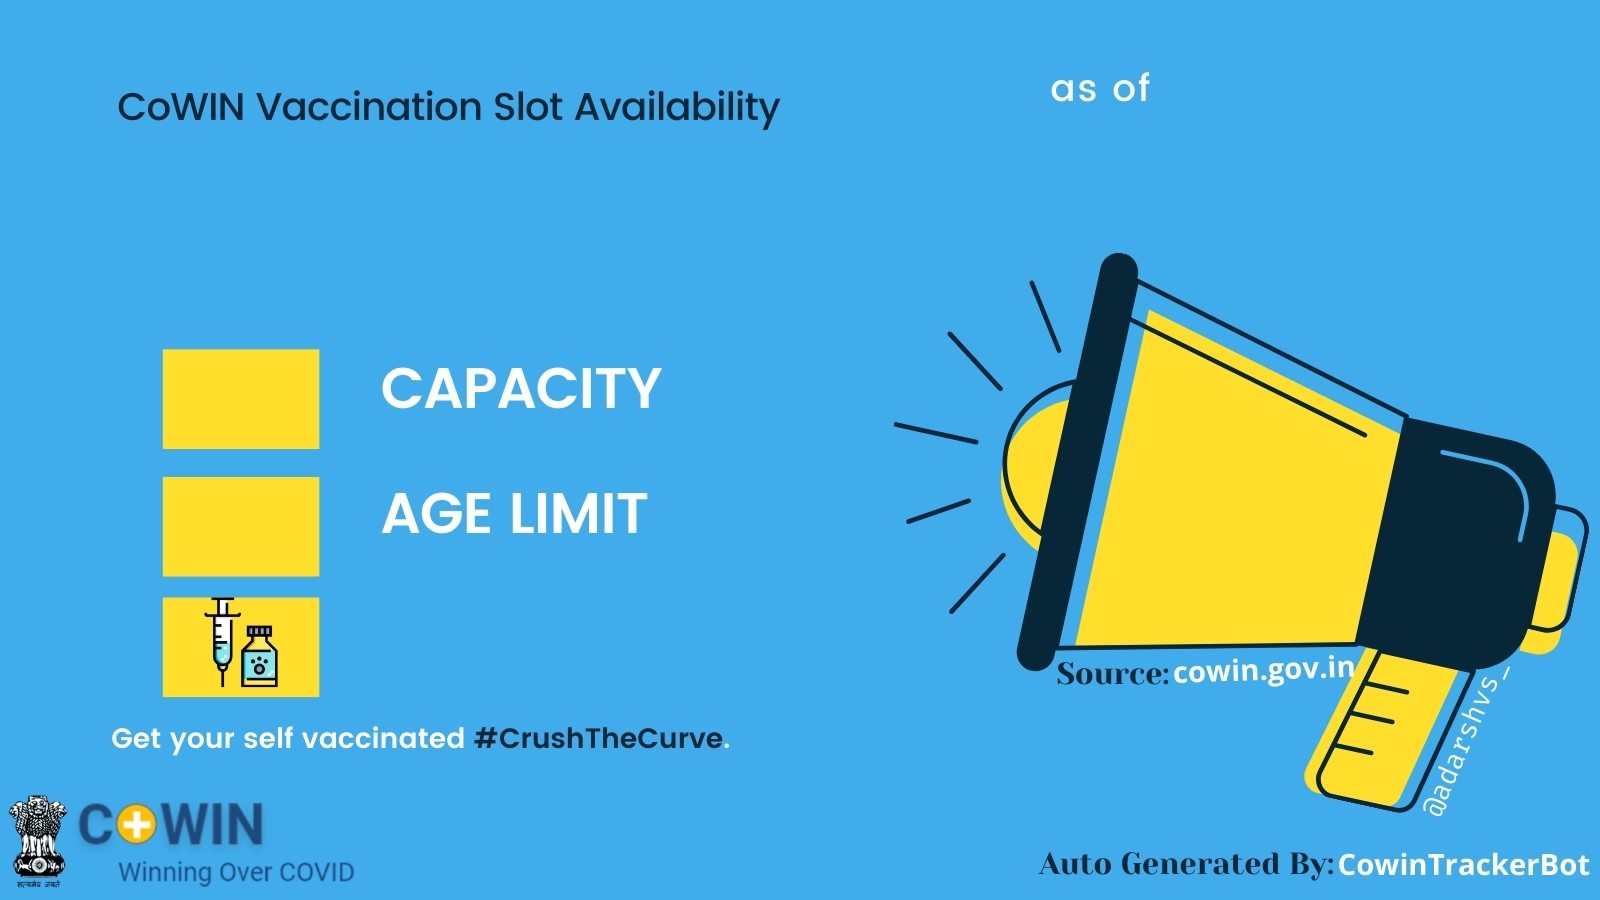
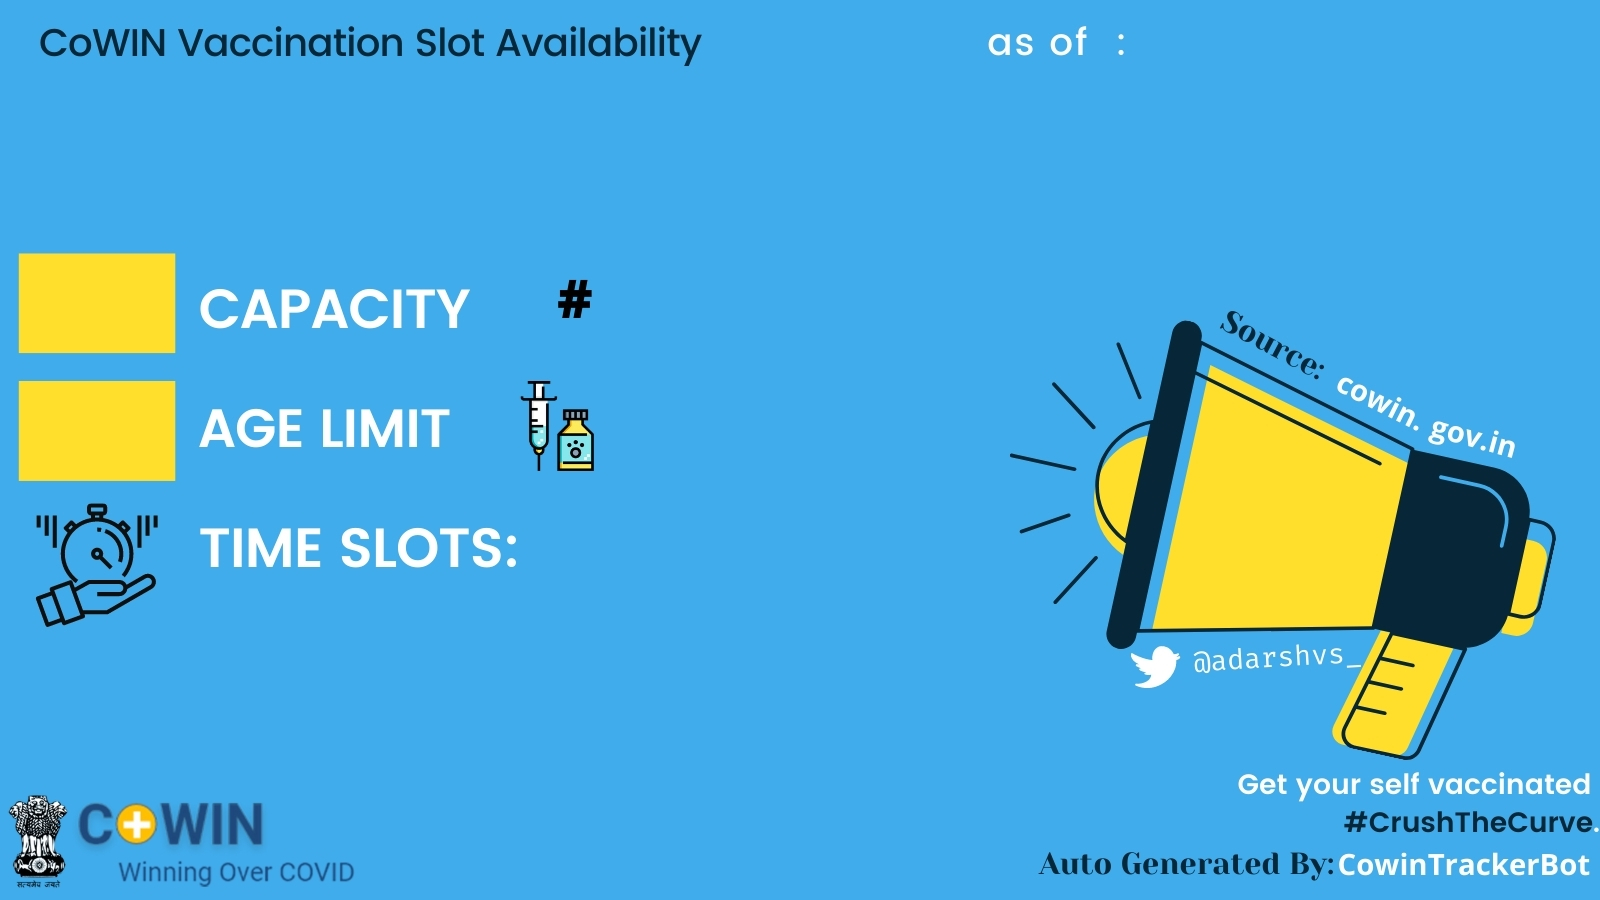
changed image template format and authentication key read format
- added time slot to image template

diff --git a/main.py b/main.py
@@ -6,14 +6,17 @@ import json
 import tweepy
 from PIL import Image, ImageDraw, ImageFont
 
-# telegram authentication token
-token = 'your bot token'
-channel_id = 'your channel name'
-# authentication of access token and secret
-consumer_key = 'consumer key'
-consumer_secret = 'consumer secrets'
-access_token = 'access token'
-access_token_secret = 'access token secret'
+with open("settings.json") as f:
+    settings = json.load(f)
+
+# telegram authentication goes here
+token = settings["telegramToken"]
+channel_id = settings["channelId"]
+# Twitter authentication goes here
+consumer_key = settings["consumerKey"]
+consumer_secret = settings["consumerSecret"]
+access_token = settings["twitterAccessToken"]
+access_token_secret = settings["accessTokenSecret"]
 
 auth = tweepy.OAuthHandler(consumer_key, consumer_secret)
 auth.set_access_token(access_token, access_token_secret)
@@ -26,11 +29,11 @@ font = ImageFont.truetype('font/Roboto-Bold.ttf', size=80)
 avail_date_font = ImageFont.truetype('font/Roboto-Bold.ttf', size=40)
 count_font = ImageFont.truetype('font/Roboto-Bold.ttf', size=60)
 vaccine_font = ImageFont.truetype('font/Roboto-Bold.ttf', size=60)
-dist_font = ImageFont.truetype('font/Roboto-Bold.ttf', size=40)
+dist_font = ImageFont.truetype('font/Roboto-Bold.ttf', size=50)
+slot_font = ImageFont.truetype('font/Roboto-Bold.ttf', size=50)
+
 
 # get current date
-
-
 def getDate():
     current_time = datetime.datetime.now()
     day = current_time.day
@@ -40,9 +43,9 @@ def getDate():
     # set time interval for checking vaccine availability, default time : 15 minutes
     time.sleep(900)
     return date
+
+
 # get name of district
-
-
 def getDistrictID(st_id, lookout_district):
     district_name = ''
     url = "https://cdn-api.co-vin.in/api/v2/admin/location/districts/{st}".format(
@@ -70,9 +73,8 @@ def getCOWIN(date, district_id):
     response = requests.get(url, headers=headers)
     return json.loads(response.text)
 
+
 # check slot availability
-
-
 def checkAvailability(payload):
     if('centers' in payload.keys()):
         length = len(payload['centers'])
@@ -85,15 +87,16 @@ def checkAvailability(payload):
                         res = {'available_center': payload['centers'][i]['name'],
                                'capacity': payload['centers'][i]['sessions'][j]['available_capacity'],
                                'vaccine': payload['centers'][i]['sessions'][j]['vaccine'],
-                               'date_avail': payload['centers'][i]['sessions'][j]['date']}
+                               'date_avail': payload['centers'][i]['sessions'][j]['date'],
+                               'slots': payload['centers'][i]['sessions'][j]['slots']}
                         output.append(res)
 
     return output
 
 
 while True:
-    st_id = 17
-    lookout_district = 296  # distict id which you want to keep an eye on vaccine availability
+    st_id = 17  # State id which you want to keep an eye on vaccine availability
+    lookout_district = 300  # distict id which you want to keep an eye on vaccine availability
     date = getDate()
     district_id = lookout_district
     dist_name = getDistrictID(st_id, lookout_district)
@@ -105,44 +108,51 @@ while True:
             ") \n #getvaccinated #cowin  #CrushTheCurve \n posted by:#cowintrackerbot"
         image = Image.open('images/cowin.jpg')
         draw = ImageDraw.Draw(image)
-        (x, y) = (122, 170)
+        (x, y) = (16, 92)
         center_name = key['available_center']
         color = 'rgb(255, 255, 255)'  # white
         draw.text((x, y), center_name, fill=color, font=font)
 
-        (x, y) = (1184, 65)
+        (x, y) = (1140, 21)
         avail_date = key['date_avail']
         color = 'rgb(0, 0, 0)'  # black color
         draw.text((x, y), avail_date, fill=color, font=avail_date_font)
 
-        (x, y) = (203, 363)
+        (x, y) = (47, 271)
         dose = str(key['capacity'])
         color = 'rgb(0, 0, 0)'  # black color
         draw.text((x, y), dose, fill=color, font=count_font)
 
-        (x, y) = (197, 492)
+        (x, y) = (43, 398)
         age_lim = "45"
         color = 'rgb(0, 0, 0)'  # black color
         draw.text((x, y), age_lim, fill=color, font=count_font)
 
-        (x, y) = (382, 609)
+        (x, y) = (607, 396)
         vaccine_name = key['vaccine']
         color = 'rgb(139,0,0)'  # maroon color
         draw.text((x, y), vaccine_name, fill=color, font=vaccine_font)
 
-        (x, y) = (1054, 134)
+        (x, y) = (611, 263)
         dist_names = dist_name
-        color = 'rgb(48,8,8)'  # black color
+        color = 'rgb(7,38,56)'  # black color
         draw.text((x, y), dist_names, fill=color, font=dist_font)
+
+        (x, y) = (535, 519)
+        slot_avail = '\n'.join(key['slots'])
+        color = 'rgb(7,38,56)'  # black color
+        draw.text((x, y), slot_avail, fill=color, font=slot_font)
 
         image.save('images/optimized.png', optimize=True, quality=20)
         img_path = 'images/optimized.png'
+        # Twitter post section goes here
         api.update_with_media(img_path, status)
 
         # telegram post section goes here
         cap_text = str(key['capacity']) + " doses of "+key['vaccine'] + \
-            " available at "+key['available_center']+" %23"+dist_name
+            " available at "+key['available_center'] + \
+            " %23"+dist_name+" ("+avail_date+")"
         tel_files = {'photo': open(img_path, 'rb')}
-        resps = requests.post('https://api.telegram.org/bot'+token+'/sendPhoto?chat_id=@{}'.format(
+        requests.post('https://api.telegram.org/bot'+token+'/sendPhoto?chat_id=@{}'.format(
             channel_id)+'&caption={}'.format(cap_text), files=tel_files)
-        print(resps)
+        print(center_name)
